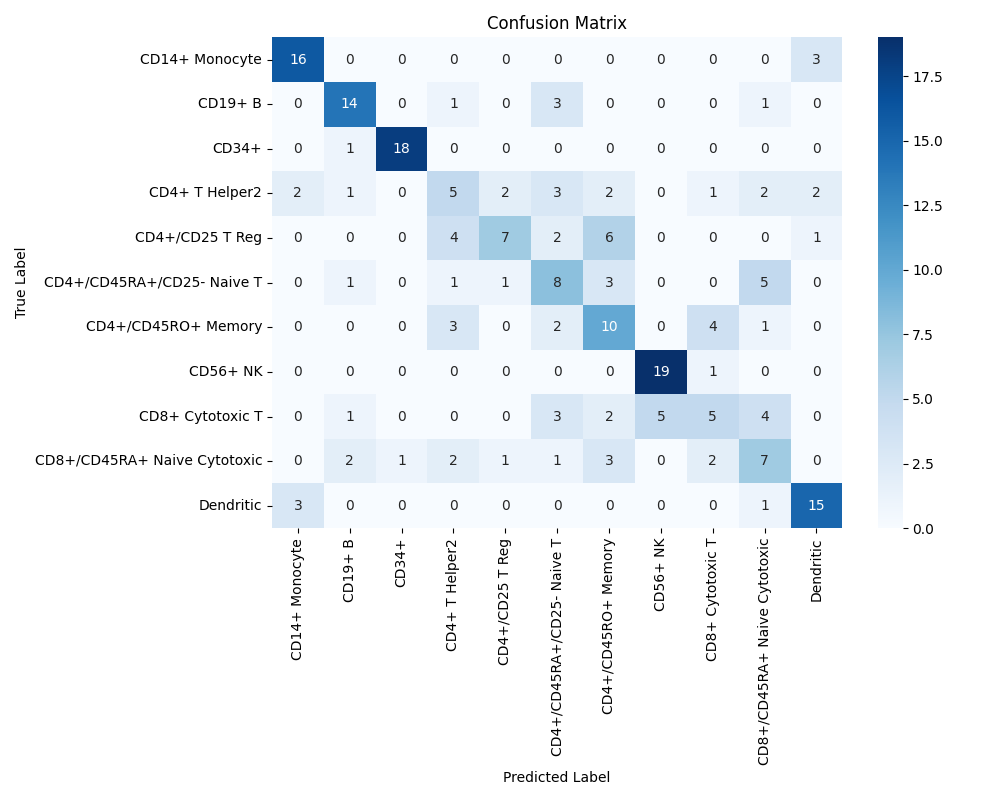
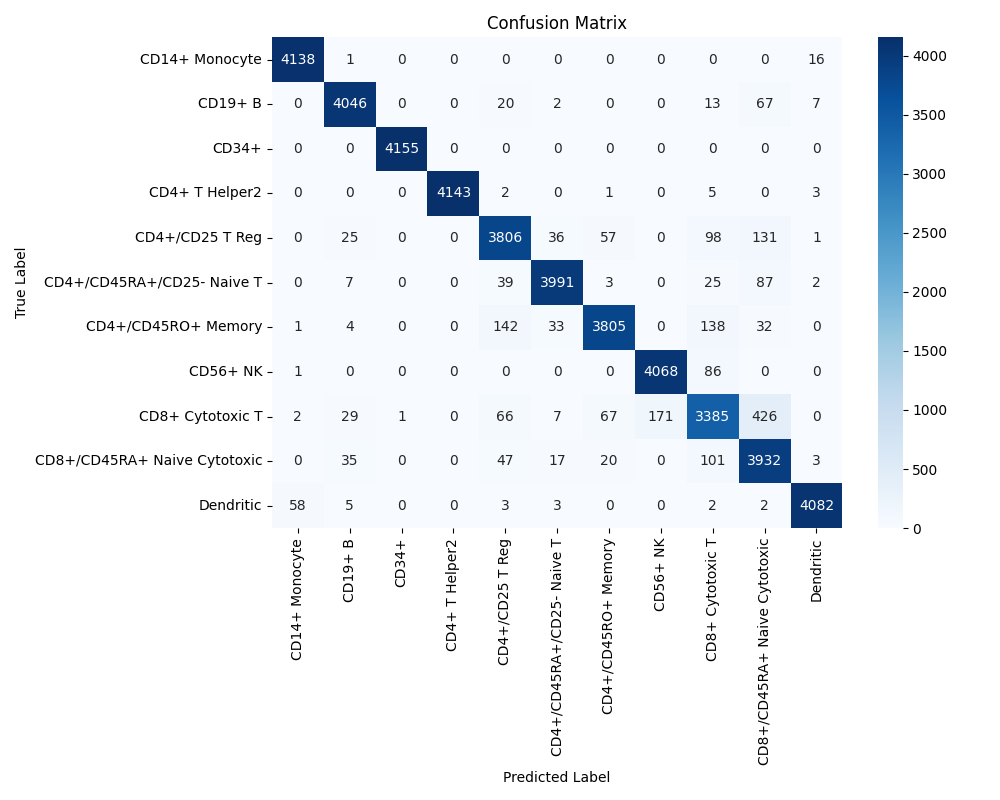
updating smote

diff --git a/cell_type_classification/helper.py b/cell_type_classification/helper.py
@@ -1,18 +1,22 @@
+import os
 import numpy as np
 import pandas as pd
-from sklearn.linear_model import LogisticRegression
 import scanpy as sc
+import anndata as ad
+import seaborn as sns
+import xgboost as xgb
+import matplotlib.pyplot as plt
+from xgboost import XGBClassifier
+from scipy.sparse import issparse
+from imblearn.over_sampling import SMOTE
+from sklearn.linear_model import SGDClassifier
 from sklearn.preprocessing import LabelEncoder
 from sklearn.ensemble import RandomForestClassifier
-import xgboost as xgb
-from xgboost import XGBClassifier
+from sklearn.linear_model import LogisticRegression
+from sklearn.model_selection import StratifiedShuffleSplit
 from sklearn.metrics import accuracy_score, confusion_matrix, f1_score, classification_report
-from sklearn.linear_model import SGDClassifier
-import matplotlib.pyplot as plt
-import seaborn as sns
-import os
 
-def preprocess_data(adata):
+def preprocess_data(adata, samp=False, cluster=False):
 
     """
     Preprocess the input AnnData object by normalizing and log-transforming the data.
@@ -36,45 +40,24 @@ def preprocess_data(adata):
     cell_type_series = adata.obs['cell_type']
     le = LabelEncoder()
     y = le.fit_transform(cell_type_series)
-    return adata,y,le
+    X = adata.X
+    if samp == False :
+        X_train, y_train, X_test, y_test = split_data(X,y)
+    else:
+        X_balanced, y_balanced = do_smote(X, y, cluster)
+        X_train, y_train, X_test, y_test = split_data(X_balanced,y_balanced)
+    return X_train, y_train, X_test, y_test, le
 
-def balance_dataset(adata, X, y):
+def split_data(X,y):
+    SAMPLING_FRACS = [1.0]
+    for frac in SAMPLING_FRACS:
+        sss = StratifiedShuffleSplit(n_splits=1, test_size=0.2, random_state=2022) #update Aug 2023: hold train/val across all runs #same train/val set split for each frac in k
+        for index_train, index_val in sss.split(X, y):
+            index_train_small = np.random.choice(index_train, round(index_train.shape[0]*frac), replace=False)
+            X_train, y_train = X[index_train_small], y[index_train_small]
+            X_test, y_test = X[index_val], y[index_val]
+    return X_train, y_train, X_test, y_test
 
-    """
-    Downsamples each class in the dataset to the size of the smallest class for balancing.
-
-    Parameters:
-    -----------
-    adata : AnnData
-        AnnData object (used for updating obs with new labels).
-    X : array-like
-        Feature matrix (cells x genes).
-    y : array-like
-        Class labels.
-
-    Returns:
-    --------
-    X_balanced : np.ndarray
-        Downsampled feature matrix.
-    y_balanced : np.ndarray
-        Downsampled label array.
-    """
-
-    assert len(y) == X.shape[0], f"Mismatch: len(y)={len(y)}, X.shape[0]={X.shape[0]}"
-
-    adata.obs['label'] = y
-    min_size = pd.Series(y).value_counts().min()
-
-    balanced_indices = []
-    for label in np.unique(y):
-        label_indices = np.where(y == label)[0]
-        selected = np.random.choice(label_indices, min_size, replace=False)
-        balanced_indices.extend(selected)
-
-    X_balanced = X[balanced_indices]
-    y_balanced = y[balanced_indices]
-
-    return X_balanced, y_balanced
 
 def train_rf(X,y):
 
@@ -258,3 +241,64 @@ def plot_confusion_matrix(y_true, y_pred, label_encoder=None,save_path=None):
         plt.close()
     else:
         plt.show()
+
+def do_smote(X, y, cluster=False):
+    """
+    Apply SMOTE to balance the dataset and train a model.
+
+    Parameters:
+    -----------
+    X : array-like
+        Feature matrix.
+    y : array-like
+        Class labels.
+    Returns:
+    --------
+    X_balanced, y_balanced
+    """
+
+    print("Before SMOTE:")
+    print(f"X shape: {X.shape}")
+    print(f"y shape: {y.shape}")
+    save_path = os.path.join(os.path.dirname(__file__), '..', 'data')
+    os.makedirs(save_path, exist_ok=True)
+    if cluster:
+        adata_file = sc.read_h5ad('/data1/data/corpus/pbmc68k_balanced_data.h5ad')
+    else:
+        adata_file = os.path.join(save_path, "pbmc68k_balanced_data.h5ad")
+    if os.path.exists(adata_file):
+            print("Balanced data exists..")
+            adata = ad.read_h5ad(adata_file)
+            X_balanced = adata.X
+            y_balanced = adata.obs['label'].values
+    else:
+            smote = SMOTE(random_state=2022)
+            X_balanced, y_balanced = smote.fit_resample(X, y)
+            adata = ad.AnnData(X_balanced)
+            adata.obs['label'] = pd.Categorical(y_balanced)
+            adata.write(adata_file)
+    print("After SMOTE:")
+    print(f"X shape: {X_balanced.shape}")
+    print(f"y shape: {y_balanced.shape}")
+    print("Class distribution after SMOTE:")
+    print(pd.Series(y_balanced).value_counts())
+    return X_balanced, y_balanced
+        
+
+def shap_explain(clf,X_train, X_test):
+    """
+    Function to train a Logistic Regression model and explain it using SHAP.
+    
+    Returns:
+    - shap_values: SHAP values for the test data
+    - model: Trained logistic regression model
+    - explainer: SHAP explainer object
+    """
+
+    explainer = shap.Explainer(clf, X_train)
+    shap_values = explainer(X_test)
+    shap.summary_plot(shap_values, X_test)
+    shap.force_plot(shap_values[0])
+    shap.dependence_plot("mean radius", shap_values, X_test)
+
+

diff --git a/cell_type_classification/gene_final.py b/cell_type_classification/gene_final.py
@@ -5,10 +5,9 @@ import scanpy as sc
 import anndata as ad
 import argparse
 from sklearn.preprocessing import LabelEncoder
-from sklearn.model_selection import train_test_split,StratifiedShuffleSplit
 import helper as h
 
-def run_model(model,down_samp,adata,y,le):
+def run_model(model,X_train, y_train, X_test, y_test, down_samp, le):
     """
     Trains and evaluates a classification model (Logistic Regression or Random Forest)
     on the given AnnData object. Optionally performs downsampling to balance class labels.
@@ -17,59 +16,41 @@ def run_model(model,down_samp,adata,y,le):
     -----------
     model : str
         The model to train, either "lr" for Logistic Regression or "rf" for Random Forest.
-    
-    down_samp : bool
-        Whether to perform downsampling to balance class distributions.
-        
-    adata : anndata.AnnData
-        The AnnData object containing gene expression data (adata.X) and metadata.
-    
-    y : np.ndarray
-        The encoded labels for classification.
-    
-    le : sklearn.preprocessing.LabelEncoder
-        LabelEncoder instance used to map original class names to integers.
+
+    X_train : np.ndarray
+        The training feature matrix.
+    y_train : np.ndarray
+        The training labels.
+    X_test : np.ndarray
+        The test feature matrix.
+    y_test : np.ndarray
+        The test labels.
 
     Returns:
     --------
     None
     """
-    X = adata.X
-    #print(model,down_samp,adata,y,le)
-    if down_samp == False :
-        SAMPLING_FRACS = [1.0]
-        for frac in SAMPLING_FRACS:
-            sss = StratifiedShuffleSplit(n_splits=1, test_size=0.2, random_state=2022) #update Aug 2023: hold train/val across all runs #same train/val set split for each frac in k
-            for index_train, index_val in sss.split(X, y):
-                index_train_small = np.random.choice(index_train, round(index_train.shape[0]*frac), replace=False)
-                X_train, y_train = X[index_train_small], y[index_train_small]
-                X_test, y_test = X[index_val], y[index_val]
-    else:
-        X_balanced,y_balanced = h.balance_dataset(adata,X,y)
-        SAMPLING_FRACS = [1.0]
-        for frac in SAMPLING_FRACS:
-            sss = StratifiedShuffleSplit(n_splits=1, test_size=0.2, random_state=2022) #update Aug 2023: hold train/val across all runs #same train/val set split for each frac in k
-            for index_train, index_val in sss.split(X_balanced, y_balanced):
-                index_train_small = np.random.choice(index_train, round(index_train.shape[0]*frac), replace=False)
-                X_train, y_train = X_balanced[index_train_small], y_balanced[index_train_small]
-                X_test, y_test = X_balanced[index_val], y_balanced[index_val]
-
     if model == "lr":
         lr = h.train_logistic_regression(X_train, y_train)
-        h.evaluate_model(lr, X_train, y_train, le,"train",model,down_samp)
-        h.evaluate_model(lr, X_test, y_test, le,"test",model,down_samp)
+        h.evaluate_model(lr, X_train, y_train,"train",model,down_samp)
+        h.evaluate_model(lr, X_test, y_test,"test",model,down_samp)
+        #h.shap_explainer(lr, X_train, X_test)
     elif model == "rf":
         rf = h.train_rf(X_train, y_train)
         h.evaluate_model(rf, X_train, y_train, le,"train",model,down_samp)
         h.evaluate_model(rf, X_test, y_test, le,"test",model,down_samp)
+        #h.shap_explainer(lr, X_train, X_test)
+
     elif model == "sgd":
         rf = h.train_sgd(X_train, y_train)
         h.evaluate_model(rf, X_train, y_train, le,"train",model,down_samp)
         h.evaluate_model(rf, X_test, y_test, le,"test",model,down_samp)
+        #h.shap_explainer(lr, X_train, X_test)
     elif model == "xg":
         xg = h.train_xgboost(X_train, y_train)
         h.evaluate_model(xg, X_train, y_train, le,"train",model,down_samp)
         h.evaluate_model(xg, X_test, y_test, le,"test",model,down_samp)
+        #h.shap_explainer(lr, X_train, X_test)
 
 
 if __name__ == "__main__":
@@ -122,8 +103,8 @@ if __name__ == "__main__":
         file_path = os.path.join(current_dir, '..', 'data', 'pbmc68k(2).h5ad')
         adata = sc.read_h5ad(file_path)
 
-    adata,y,le = h.preprocess_data(adata)
+    X_train, y_train, X_test, y_test, le = h.preprocess_data(adata, args.down_samp, args.cluster)
     
-    run_model(args.model, args.down_samp, adata, y,le)
+    run_model(args.model, X_train, y_train, X_test, y_test, args.down_samp, le)
     
 
